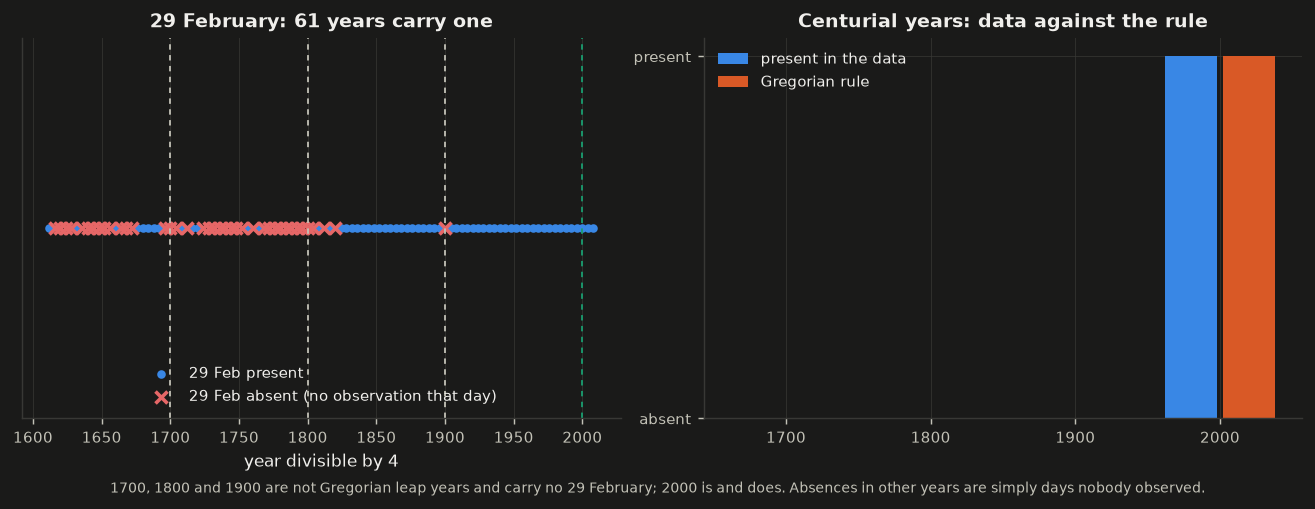
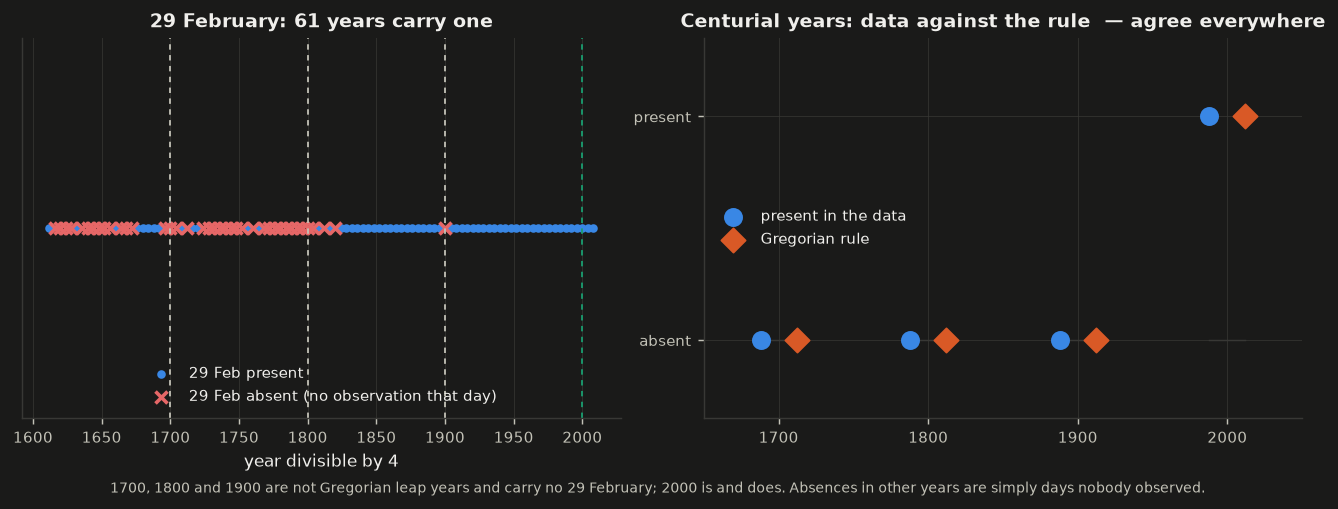
Make the leap-day panel show absence as a state, not as nothing
A zero-height bar renders as empty space, so the centurial panel showed only
the year 2000 and silently looked like three missing data points rather than
three correct absences. Markers now state both states, and the title carries
the verdict: the data and the Gregorian rule agree everywhere - 1700, 1800 and
1900 carry no 29 February and 2000 does.

diff --git a/src/gn_next_gen/viz/data.py b/src/gn_next_gen/viz/data.py
@@ -371,35 +371,49 @@ def leap_day_figure(mode: str = "light") -> plt.Figure:
         ax.legend(loc="lower center", ncol=1)
 
         ax = axes[1]
-        rule = {
-            "1700": 1700 in leap_years,
-            "1800": 1800 in leap_years,
-            "1900": 1900 in leap_years,
-            "2000": 2000 in leap_years,
-        }
-        names = list(rule)
-        values = [1 if rule[n] else 0 for n in names]
-        expected = [0, 0, 0, 1]
-        ax.bar(
-            np.arange(4) - 0.2,
-            values,
-            width=0.36,
+        # A zero-height bar renders as nothing, which reads as "no data" rather than
+        # "absent". Markers state both states explicitly.
+        centuries = [1700, 1800, 1900, 2000]
+        positions = np.arange(len(centuries))
+        in_data = [1 if year in leap_years else 0 for year in centuries]
+        by_rule = [1 if year % 400 == 0 else 0 for year in centuries]
+        ax.scatter(
+            positions - 0.12,
+            in_data,
+            s=90,
             color=role_color("observed", mode),
             label="present in the data",
+            zorder=3,
         )
-        ax.bar(
-            np.arange(4) + 0.2,
-            expected,
-            width=0.36,
+        ax.scatter(
+            positions + 0.12,
+            by_rule,
+            s=90,
+            marker="D",
             color=role_color("simulated", mode),
             label="Gregorian rule",
+            zorder=3,
         )
-        ax.set_xticks(np.arange(4))
-        ax.set_xticklabels(names)
+        for position in positions:
+            ax.plot(
+                [position - 0.12, position + 0.12],
+                [0, 0],
+                color=theme["grid"],
+                linewidth=0.8,
+                zorder=1,
+            )
+        agree = all(a == b for a, b in zip(in_data, by_rule, strict=True))
+        ax.set_xticks(positions)
+        ax.set_xticklabels([str(year) for year in centuries])
+        ax.set_xlim(-0.5, len(centuries) - 0.5)
+        ax.set_ylim(-0.35, 1.35)
         ax.set_yticks([0, 1])
         ax.set_yticklabels(["absent", "present"])
-        ax.set_title("Centurial years: data against the rule")
-        ax.legend(loc="upper left")
+        ax.set_title(
+            "Centurial years: data against the rule"
+            + ("  — agree everywhere" if agree else "  — MISMATCH")
+        )
+        ax.legend(loc="center left")
 
         caption(
             fig,
